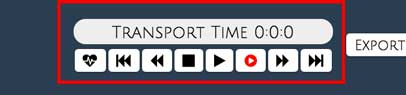
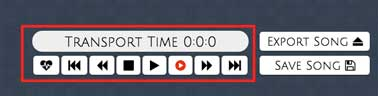
add extra step to help, tweak images to include new layout

diff --git a/public/js/views/landingView.js b/public/js/views/landingView.js
@@ -26,8 +26,7 @@ WO.LandingView = Backbone.View.extend({
         '<img src="../img/help/drumpad-icons.jpg" id="help-pg1">'+
         '<p>Here is our Drum Pad. Horizontally, each square represents one sixteenth note. Vertically, each square represents a different drum. From the bottom up we have: Kick, Tom3, Tom2, Tom1, Snare, Hi-Hat. The slider on the left side is just for looks ;)</p>'+
         '<p>When you click Play in the transport controls a drum beat will automatically play and loop every measure. A black square means the drum will play at that particular time in the loop.</p>'+
-
-        '<a href="" id="step4">Directly go to the last step</a>'+
+        '<a href="">Click anywhere outside this box to exit anytime</a>'+
       '</div>'+
       '<div class="bbm-modal__bottombar">'+
         '<a href="" class="bbm-button previous inactive">Previous</a>'+
@@ -183,6 +182,20 @@ WO.LandingView = Backbone.View.extend({
       '<div class="bbm-modal__section">'+
         '<p> When you’re ready to save your song to your computer, click on the Export Song button. Choose a name for your song and click OK.</p>'+
         '<img src="../img/help/export.jpg" id="help-pg12">'+
+      '</div>'+
+      '<div class="bbm-modal__bottombar">'+
+        '<a href="" class="bbm-button previous">Previous</a>'+
+        '<a href="" class="bbm-button next">Next</a>'+
+      '</div>'+
+    '</script>'+
+    '<!-- Step 13 -->'+
+    '<script type="text/template" id="modal-view13-template">'+
+      '<div class="bbm-modal__topbar">'+
+        '<h3 class="bbm-modal__title">Export Song</h3>'+
+      '</div>'+
+      '<div class="bbm-modal__section">'+
+        '<p> When you’re ready to save your song to your computer, click on the Export Song button. Choose a name for your song and click OK.</p>'+
+        '<img src="../img/help/save-song.jpg" id="help-pg13">'+
       '</div>'+
       '<div class="bbm-modal__bottombar">'+
         '<a href="" class="bbm-button previous">Previous</a>'+
